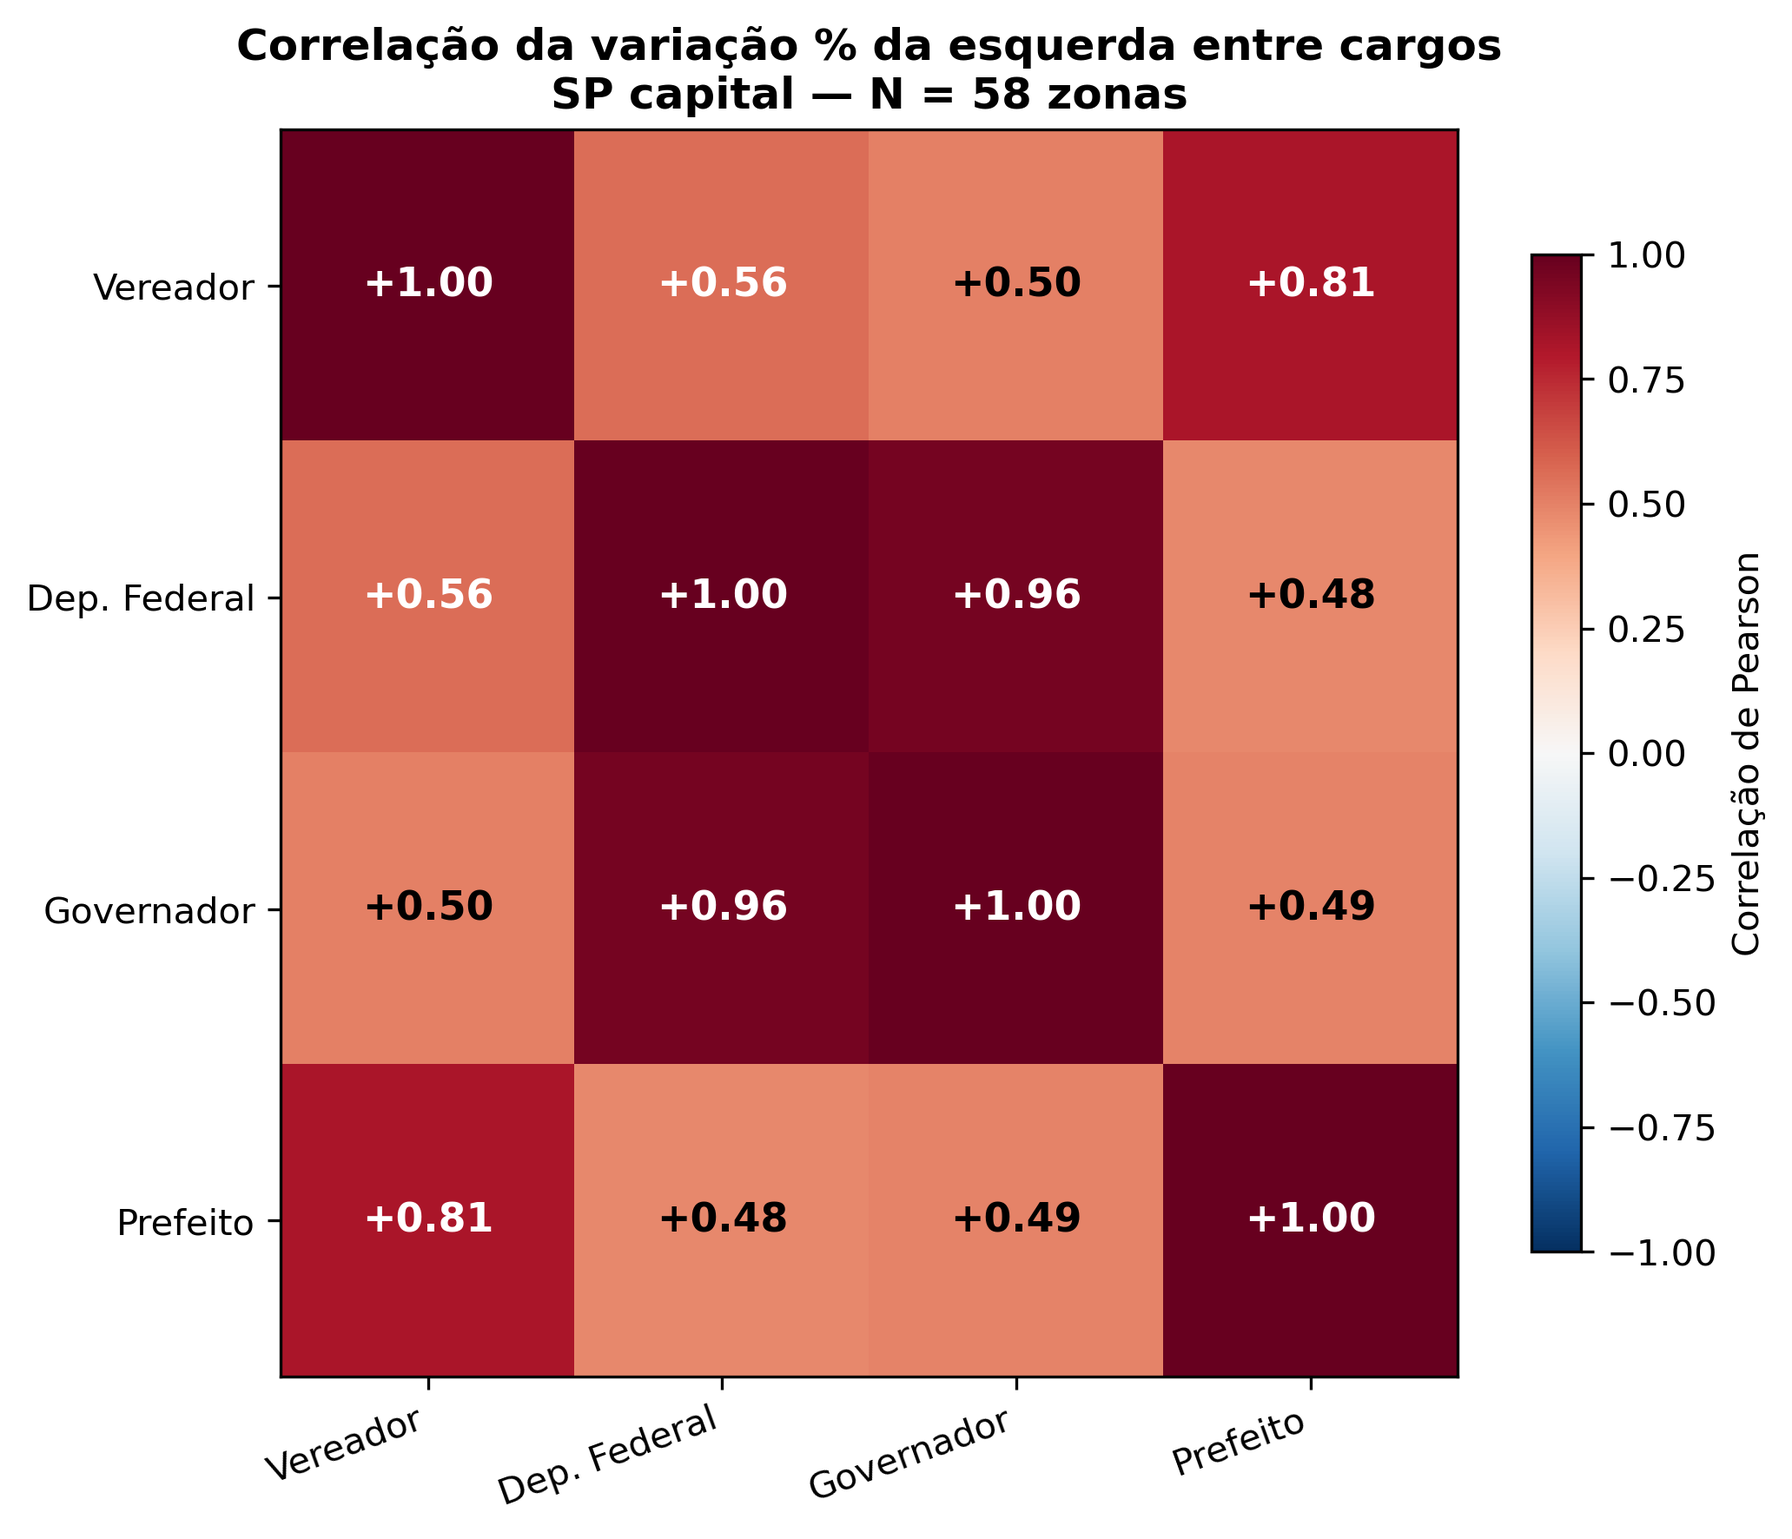
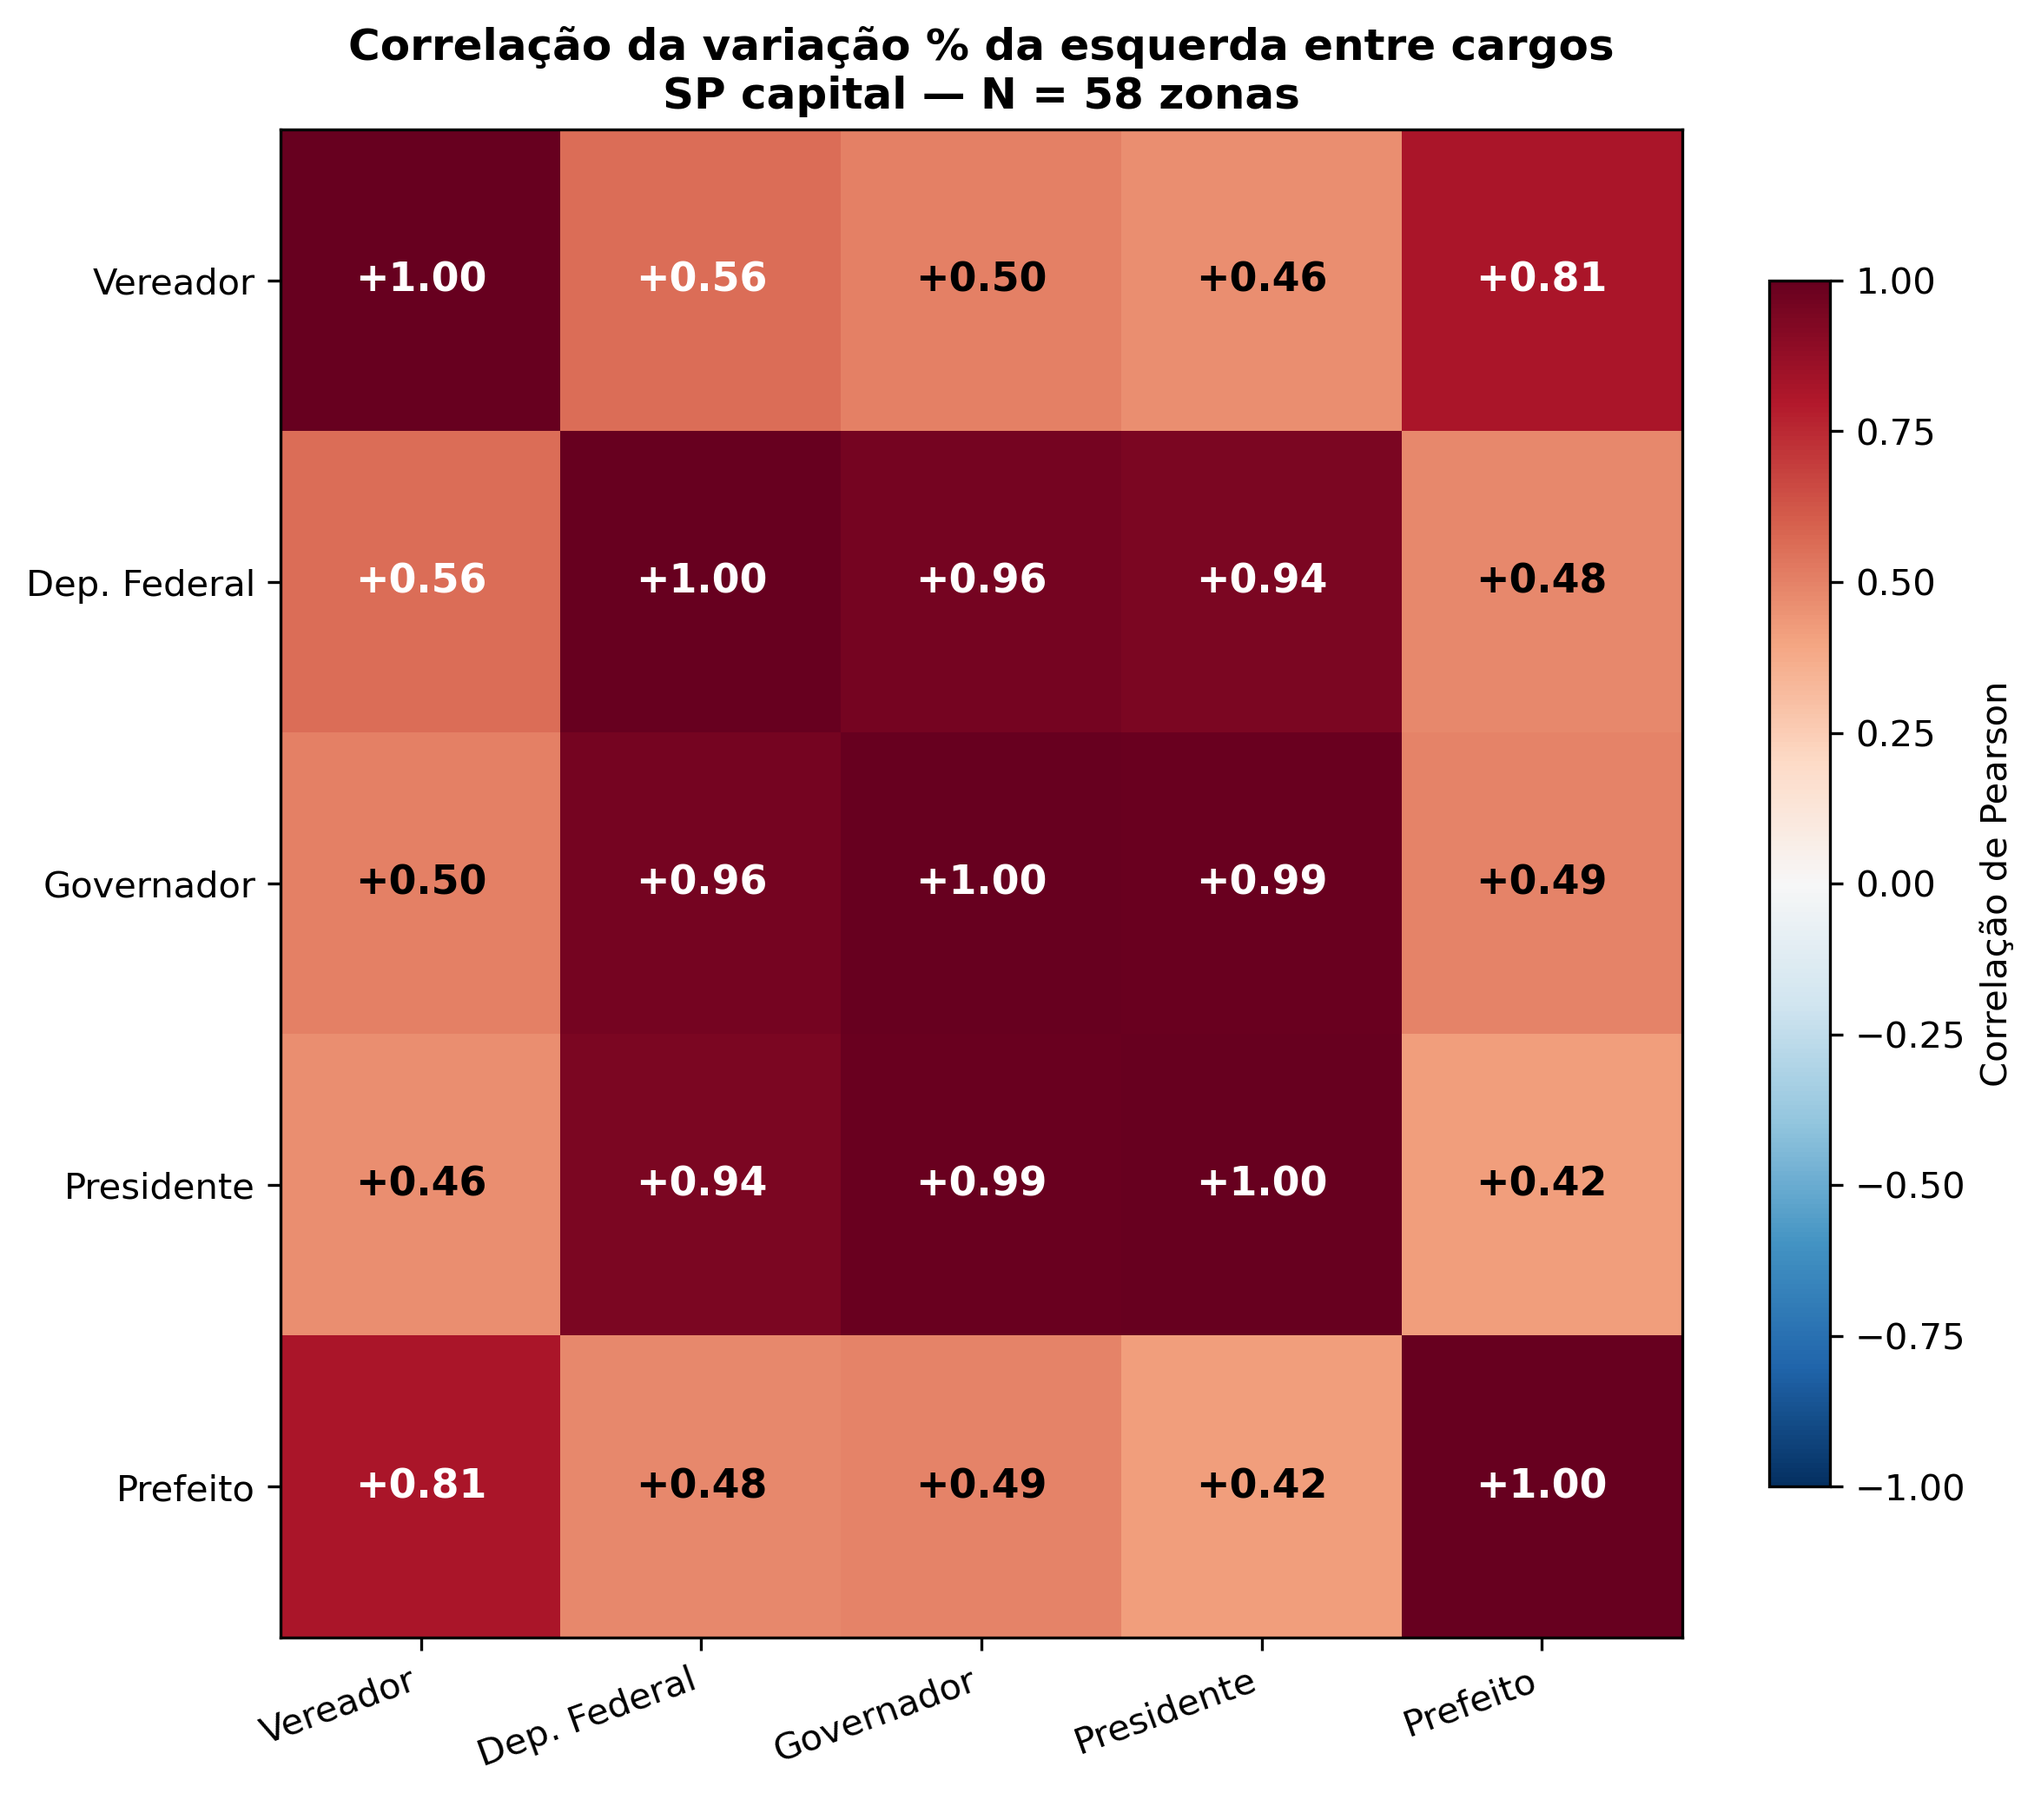
feat: adiciona presidente na correlação entre cargos
Matriz 5x5 (vereador, dep. federal, governador, presidente, prefeito).
Hipótese confirmada: bloco federal forma cluster apertado:

  Governador × Presidente:    r = +0.987 (quase perfeita)
  Dep. Federal × Governador:  r = +0.957
  Dep. Federal × Presidente:  r = +0.944

Bloco municipal:
  Vereador × Prefeito:        r = +0.813

Entre blocos: ~0.42 a 0.56. Padrão "L" claro: dois clusters
separados de cargos com correlação interna ~0.95+ e correlação
inter-bloco ~0.50.

diff --git a/src/sintese/correlacao_entre_cargos.py b/src/sintese/correlacao_entre_cargos.py
@@ -7,15 +7,16 @@ ano mais recente disponível, em cada cargo:
 - Vereador: 2012 → 2024
 - Deputado federal: 2010 → 2022
 - Governador: 2010 → 2022
+- Presidente: 2010 → 2022
 - Prefeito: 2012 → 2024
 
-Em seguida, computa a matriz 4×4 de correlação de Pearson entre as
+Em seguida, computa a matriz 5×5 de correlação de Pearson entre as
 variações e gera heatmap.
 
-Hipótese: se as zonas que perdem esquerda no vereador também perdem
-em outros cargos, a dinâmica é "estrutural" (perfil ideológico da
-zona). Se as correlações forem fracas, sugere voto diferenciado
-por nível.
+Hipótese: presidente, governador e deputado federal devem formar um
+"bloco federal" com correlações altas (~0.9+). Vereador e prefeito
+formam o bloco municipal. Correlação entre blocos deve ser moderada,
+suportando a tese de voto diferenciado por nível.
 """
 
 from pathlib import Path
@@ -43,6 +44,7 @@ CARGOS = [
     ("Vereador",      13, 2012, 2024),
     ("Dep. Federal",   6, 2010, 2022),
     ("Governador",     3, 2010, 2022),
+    ("Presidente",     1, 2010, 2022),
     ("Prefeito",      11, 2012, 2024),
 ]
 
@@ -116,7 +118,7 @@ def main() -> None:
     print(f"CSV variações:  outputs/tables/variacoes_por_cargo.csv")
 
     # Heatmap
-    fig, ax = plt.subplots(figsize=(7, 6), dpi=120)
+    fig, ax = plt.subplots(figsize=(8, 7), dpi=120)
     im = ax.imshow(corr.values, cmap="RdBu_r", vmin=-1, vmax=1, aspect="auto")
     ax.set_xticks(range(len(cols)))
     ax.set_yticks(range(len(cols)))
